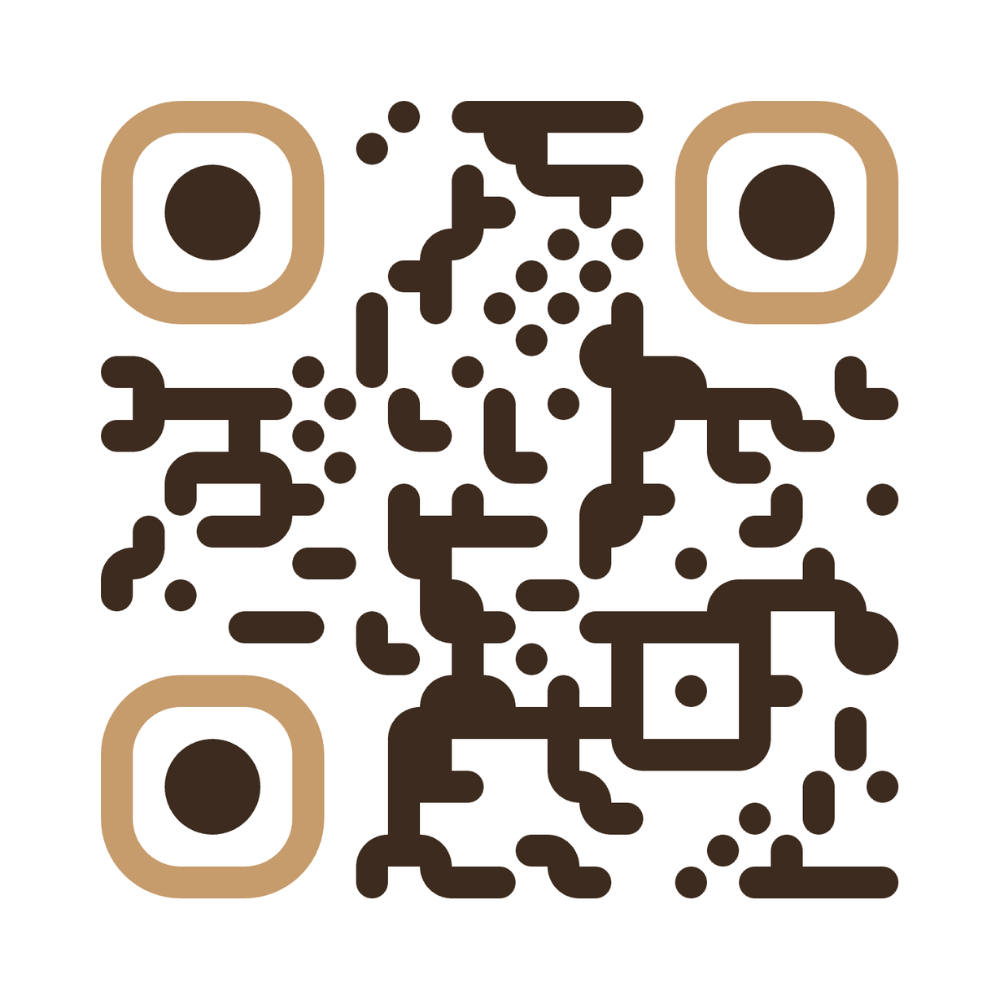
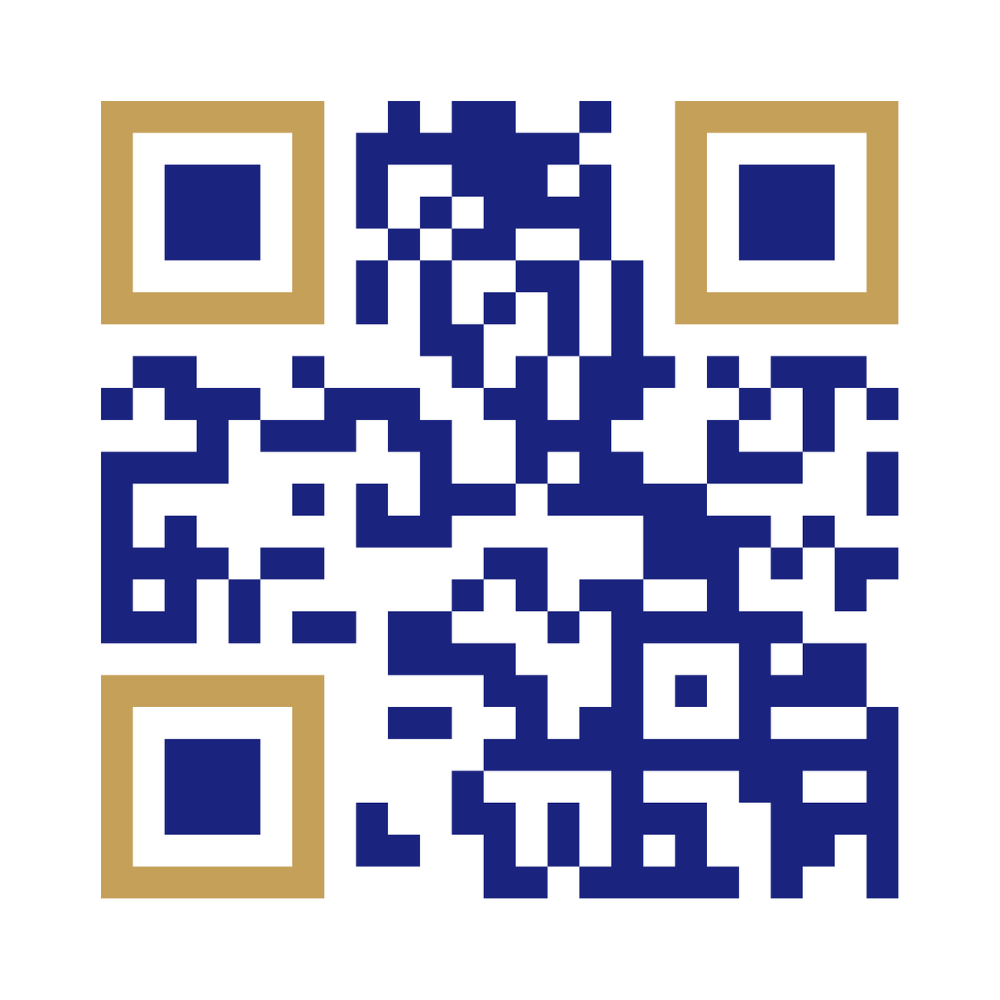
QR local (jardinespi), script gen_qr.py y encuentros con media/qr.png
Made-with: Cursor

diff --git a/encuentros.html b/encuentros.html
@@ -59,7 +59,8 @@
                         <aside class="encuentro-qr-aside" aria-label="Acceso por código QR">
                             <div class="encuentro-qr-card">
                                 <img class="encuentro-qr-img" src="media/qr.png" width="220" height="220"
-                                    alt="Código QR: escaneá para abrir el enlace del encuentro">
+                                    loading="lazy" decoding="async"
+                                    alt="Código QR: escaneá para abrir el sitio del taller (github.io/jardinespi)">
                                 <span class="encuentro-qr-hint">Escaneá con el celular</span>
                             </div>
                         </aside>

diff --git a/scripts/gen_qr.py b/scripts/gen_qr.py
@@ -1,0 +1,27 @@
+#!/usr/bin/env python3
+"""Genera media/qr.png con el enlace actual del sitio (GitHub Pages).
+
+Solo usa la biblioteca estándar. Requiere conexión a internet una vez:
+
+    python3 scripts/gen_qr.py
+"""
+from __future__ import annotations
+
+import urllib.parse
+import urllib.request
+from pathlib import Path
+
+ROOT = Path(__file__).resolve().parents[1]
+OUT = ROOT / "media" / "qr.png"
+SITE_URL = "https://lnausan.github.io/jardinespi/"
+
+
+def main() -> None:
+    qs = urllib.parse.quote(SITE_URL, safe="")
+    api = f"https://api.qrserver.com/v1/create-qr-code/?size=400x400&data={qs}"
+    urllib.request.urlretrieve(api, OUT)
+    print(f"Guardado: {OUT} ({OUT.stat().st_size} bytes)\n  → {SITE_URL}")
+
+
+if __name__ == "__main__":
+    main()
